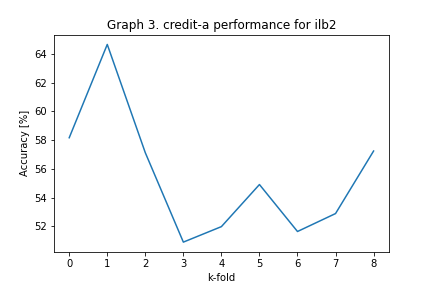
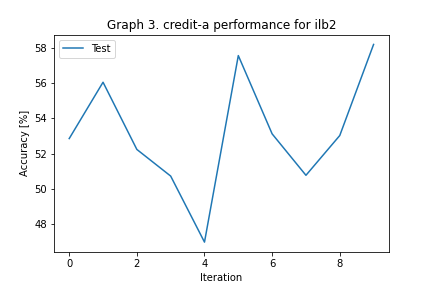
Fix cross val

diff --git a/Labs/IBL/src/util/cross_val.py b/Labs/IBL/src/util/cross_val.py
@@ -13,6 +13,9 @@ def cross_val(ds_list, algorithm, train_method, pred_method):
         # Assert data gets splitted
         x_train = ds_i['x_train']
         y_train = ds_i['y_train']
+        x_pred = ds_i['x_pred']
+        y_pred = ds_i['y_pred']
+
         accuracy_per_test = []
         execution_time = []
 
@@ -22,32 +25,20 @@ def cross_val(ds_list, algorithm, train_method, pred_method):
         end = time.time()
         execution_time.append(end - start)
 
-        for j in range(0, 10):
-            perms += 1
+        print(f'  Test index: {i}: started')
+        correct_predictions = 0
+        start = time.time()
+        for predict_index in tqdm(range(len(x_pred))):
+            predicted_label = pred(x_pred.iloc[predict_index])
 
-            if i == j:
-                print(f'  Test index: {j}: skipped')
-                continue
+            if y_pred[predict_index] == predicted_label:
+                correct_predictions += 1
 
-            print(f'  Test index: {j}: started')
-            x_pred = ds_list[j]['x_pred']
-            y_pred = ds_list[j]['y_pred']
-            correct_predictions = 0
-            start = time.time()
-            for predict_index in tqdm(range(len(x_pred))):
-                #print(f'pred ind: {predict_index}')
-                #print(f'{to_predict}')
-                #print(f'{x_pred.iloc[0]}')
-                predicted_label = pred(x_pred.iloc[predict_index])
-
-                if y_pred[predict_index] == predicted_label:
-                    correct_predictions += 1
-
-            end = time.time()
-            execution_time.append(end - start)
-            accuracy_per_test.append(correct_predictions/len(x_pred)*100)
-            print(f'  Test index: {j} accuracy: {correct_predictions/len(x_pred)*100}')
-            print(f'  Test index: {j}: ended')
+        end = time.time()
+        execution_time.append(end - start)
+        accuracy_per_test.append(correct_predictions/len(x_pred)*100)
+        print(f'  Test index: {i} accuracy: {correct_predictions/len(x_pred)*100}')
+        print(f'  Test index: {i}: ended')
 
         execution_time_m.append(execution_time)
         accuracy_matrix.append(accuracy_per_test)

diff --git a/Labs/IBL/src/main.py b/Labs/IBL/src/main.py
@@ -40,8 +40,8 @@ def ibl3(filename):
     df.to_csv(f'./logs/{filename}.{algorithm}.times.csv')
 
 def iblflow():
-    # used soybean, credit-a,
-    filename = 'credit-a'
+    # used soybean, credit-a, satimage
+    filename = 'soybean'
     ibl1(filename)
     ibl2(filename)
     ibl3(filename)
